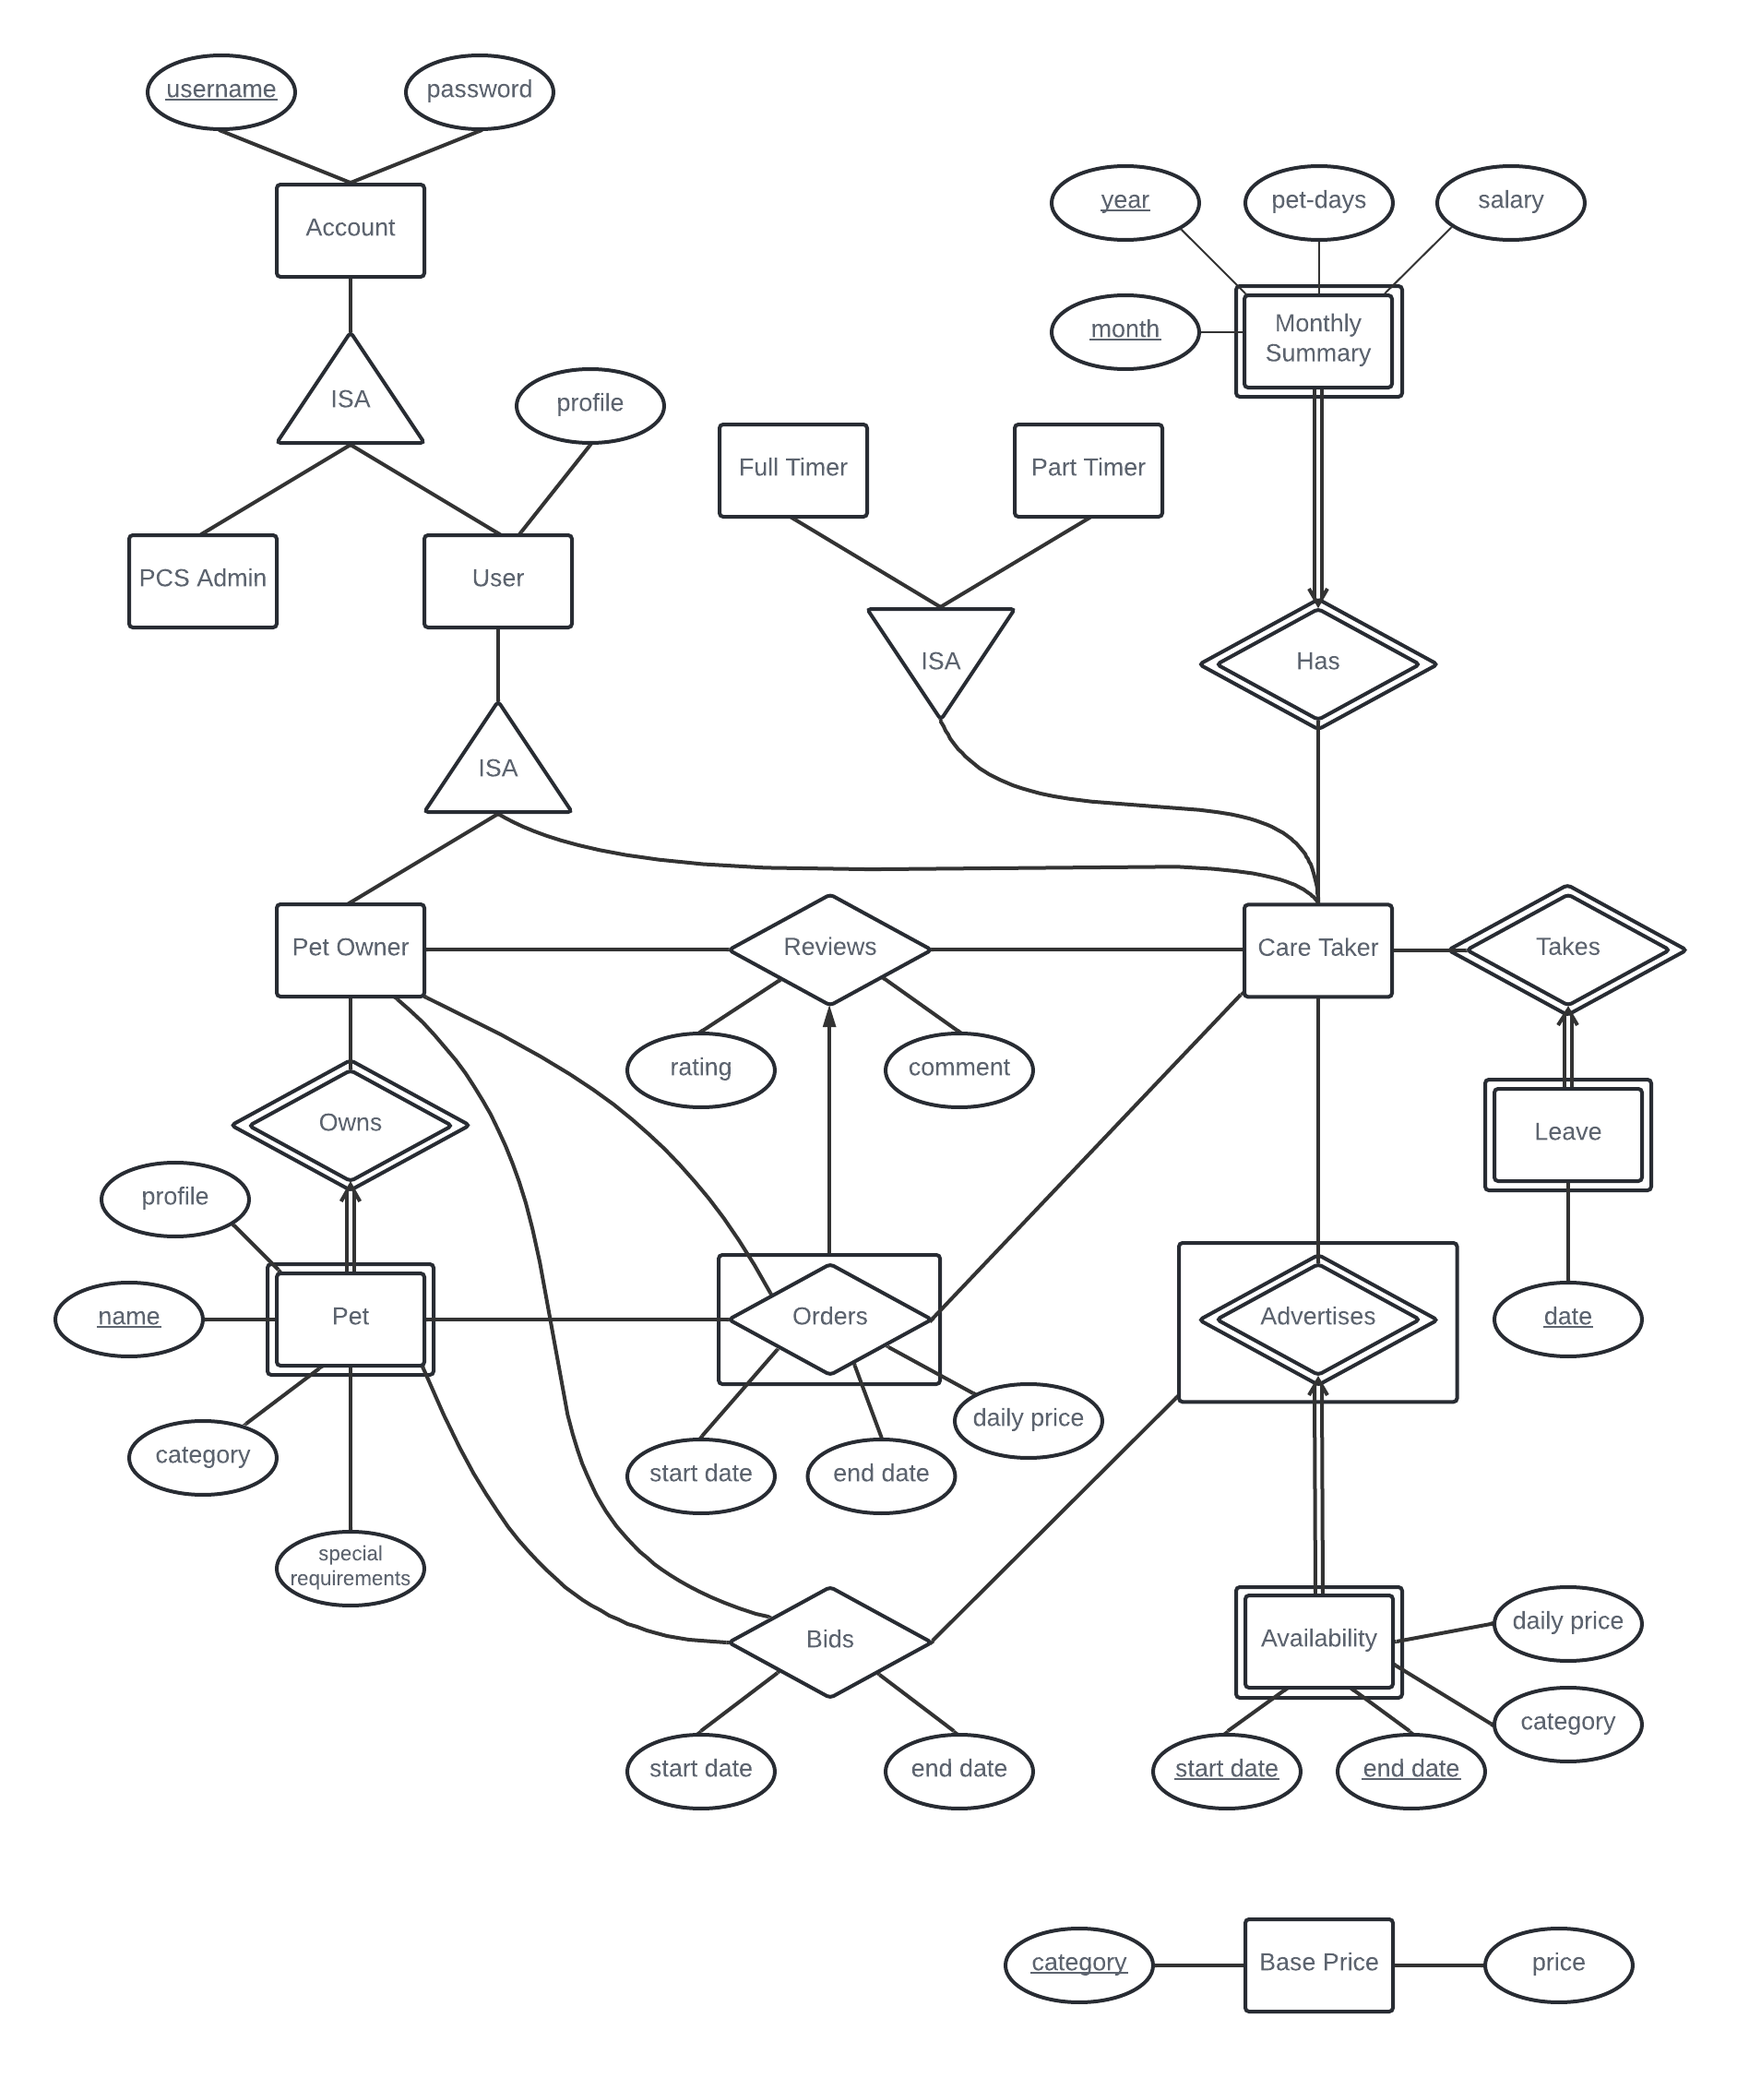
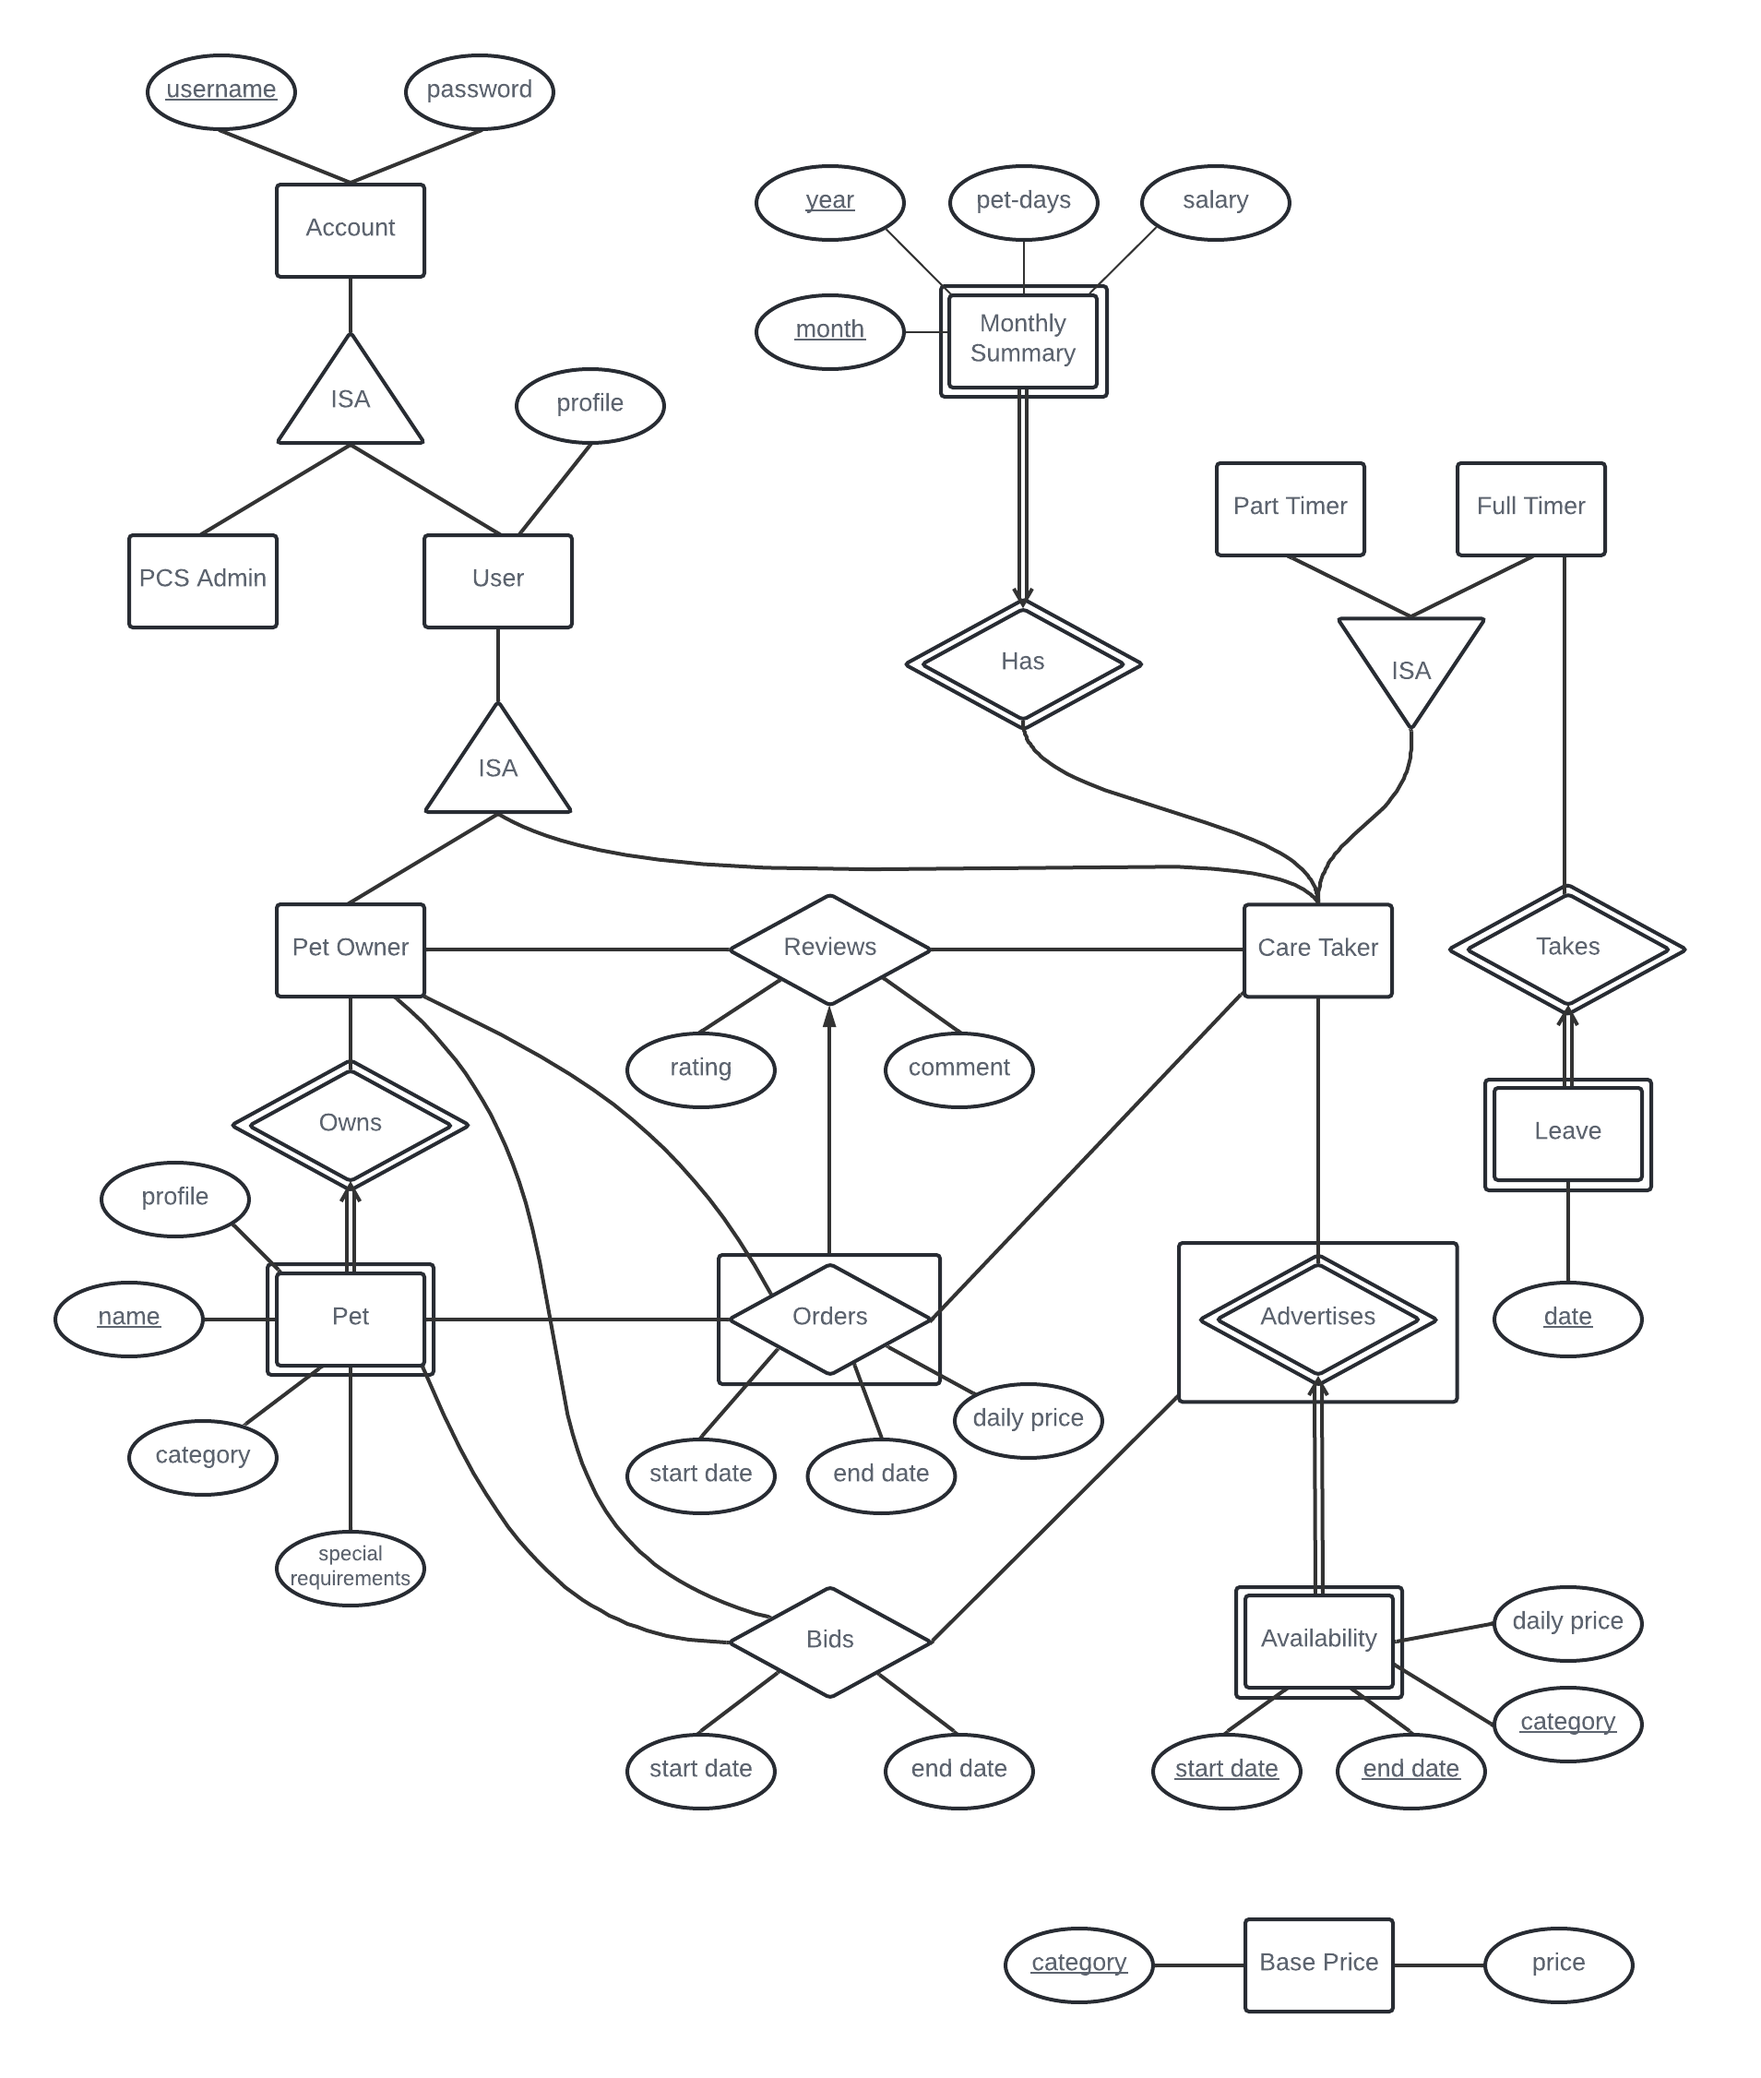
Edit constraints

diff --git a/docs/Preliminary_Constraints.md b/docs/Preliminary_Constraints.md
@@ -26,7 +26,7 @@ Note: png and pdf of ER diagram is in the same folder
 8. An Availability contains a start date, an end date, the category of the pet that the care taker can take care of, and the daily price
 9. Care Takers can create and advertise their Availability 
     - Identity dependency
-    - Start + end date as partial key
+    - Start + end date + category as partial key
 10. Availabilities with the same category should not have overlapping start/end dates 
     - Cannot be reflected on ER diagram
 
@@ -62,10 +62,10 @@ Note: png and pdf of ER diagram is in the same folder
 
 22. A Care Taker is either a Full Timer, or Part Timer
     - Covering constraint on ISA hierarchy
-23. A Care Taker can choose to specify which Date they wish to take a Leave on
+23. A Full Timer can choose to specify which Date they wish to take a Leave on
     - Identity dependency
     - Date as partial key
-24. A Care Taker cannot create an Availability on days covered by their Leave
+24. A Full Timer cannot create an Availability on days covered by their Leave
 
 
 ## Care Taker Monthly Summary
